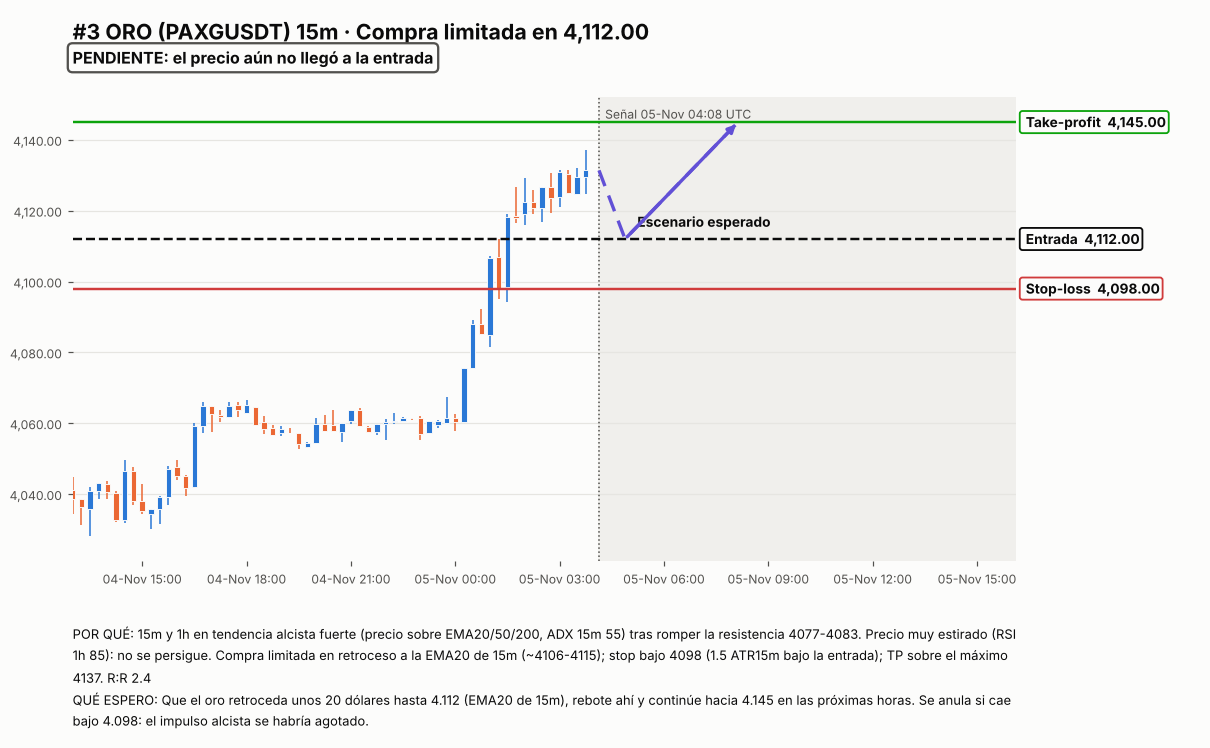
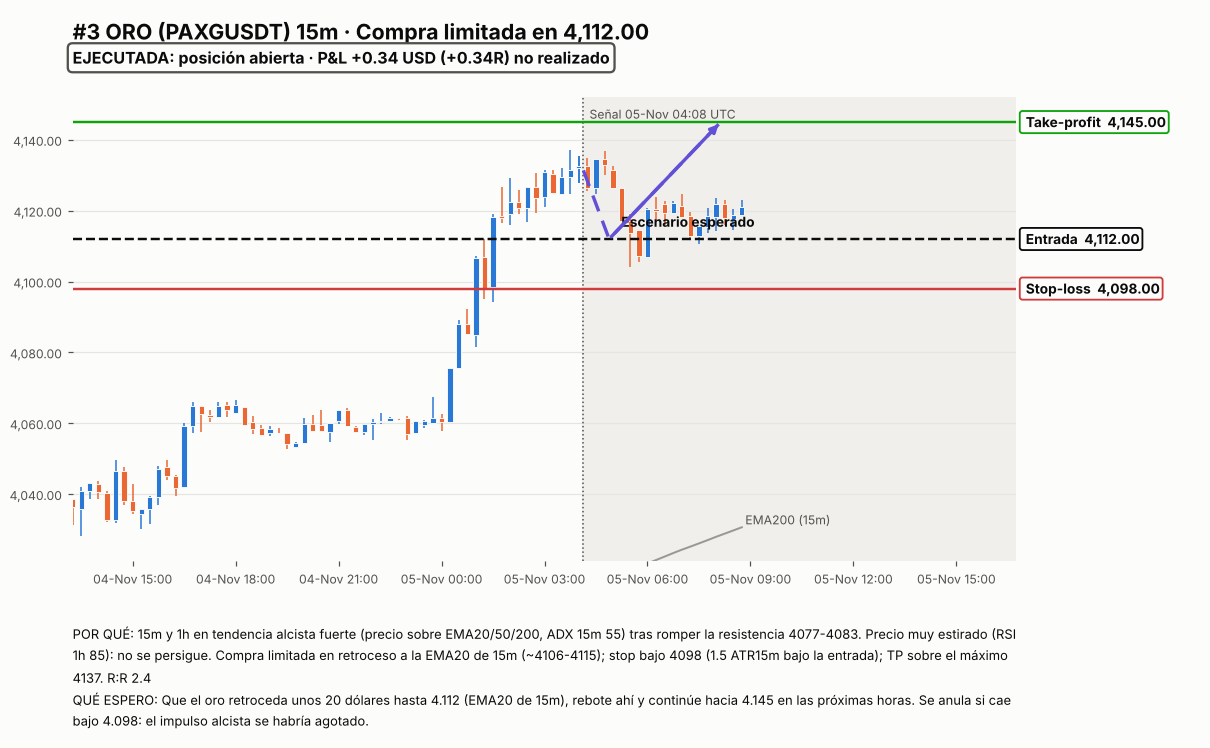
Señales paper: compra de oro #3 ejecutada en 4.112
Claude-Session: https://claude.ai/code/session_0112KUKqm1jJteJG2bRjWDeX

diff --git a/trading_bot/paper_signals/REPORTE.md b/trading_bot/paper_signals/REPORTE.md
@@ -1,18 +1,18 @@
 # Experimento de señales en paper — reporte
 
-Generado: 2026-11-05 04:07 UTC · capital simulado 100 USD · riesgo 1.0% por operación · sin apalancamiento
+Generado: 2026-11-05 09:10 UTC · capital simulado 100 USD · riesgo 1.0% por operación · sin apalancamiento
 
-|   id | creada           | activo   | dir   | tipo   |   entrada |   stop |    tp | estado    | ejecutada   | salida   |   pnl_usd |   R |   costo_spread |
-|-----:|:-----------------|:---------|:------|:-------|----------:|-------:|------:|:----------|:------------|:---------|----------:|----:|---------------:|
-|    1 | 2026-11-04T22:35 | BTC      | short | limit  |     81300 |  82500 | 77800 | pendiente | -           | -        |         0 |   0 |          0     |
-|    2 | 2026-11-04T22:35 | ORO      | short | limit  |      4078 |   4122 |  3965 | stop      | 4,077.85    | 4,122.30 |        -1 |  -1 |          0.007 |
-|    3 | 2026-11-05T04:08 | ORO      | long  | limit  |      4112 |   4098 |  4145 | pendiente | -           | -        |         0 |   0 |          0     |
+|   id | creada           | activo   | dir   | tipo   |   entrada |   stop |    tp | estado    | ejecutada   | salida          |   pnl_usd |     R |   costo_spread |
+|-----:|:-----------------|:---------|:------|:-------|----------:|-------:|------:|:----------|:------------|:----------------|----------:|------:|---------------:|
+|    1 | 2026-11-04T22:35 | BTC      | short | limit  |     81300 |  82500 | 77800 | pendiente | -           | -               |     0     |  0    |          0     |
+|    2 | 2026-11-04T22:35 | ORO      | short | limit  |      4078 |   4122 |  3965 | stop      | 4,077.85    | 4,122.30        |    -1     | -1    |          0.007 |
+|    3 | 2026-11-05T04:08 | ORO      | long  | limit  |      4112 |   4098 |  4145 | abierta   | 4,112.15    | (mark 4,126.64) |     0.338 |  0.34 |          0.004 |
 
 - Operaciones cerradas: 1 (ganadoras 0, perdedoras 1)
 - P&L realizado: -1.00 USD (-1.00%)
-- P&L abierto (no realizado): +0.00 USD
+- P&L abierto (no realizado): +0.34 USD
 - Profit factor: 0.00
 - Costo de spread (ya incluido en el P&L): 0.01 USD
-- Equity estimado: 99.00 USD
+- Equity estimado: 99.34 USD
 
 Muestra pequeña: con pocas operaciones el resultado NO distingue habilidad de suerte.
